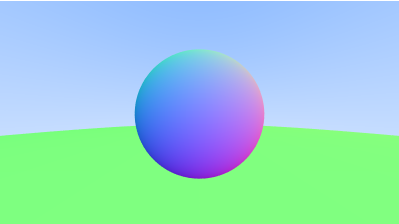
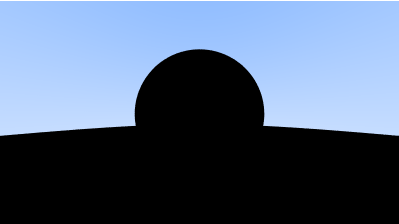
some diffuse but not working

diff --git a/main.go b/main.go
@@ -1,6 +1,7 @@
 package main
 
 import (
+	"fmt"
 	"image"
 	"image/png"
 	"math"
@@ -14,6 +15,7 @@ func main() {
 	const imageWidth int = 400
 	const imageHeight int = int(float64(imageWidth) / aspectRatio)
 	const samplesPerPixel int = 100
+	const maxDepth int = 100
 
 	//Camera
 
@@ -29,12 +31,11 @@ func main() {
 	var world hittableList
 
 	world.Add(sphere{point3{0, 0, -1}, 0.5})
-	world.Add(sphere{point3{0, -100.5, -1}, 100})
+	// world.Add(sphere{point3{0, -100.5, -1}, 100})
 
 	// Set color for each pixel.
 	for y := imageHeight - 1; y >= 0; y-- {
-		// for y := 0; y < imageHeight; y++ {
-		// fmt.Printf("%d/%d lines\n", y, imageHeight-1)
+		fmt.Printf("%d/%d lines\n", imageHeight-y, imageHeight-1)
 		for x := 0; x < imageWidth; x++ {
 			pixelColor := color3{0, 0, 0}
 
@@ -44,7 +45,12 @@ func main() {
 				//Vertical ratio?
 				v := (float64(y) + randomDouble()) / float64(imageHeight-1)
 				currentRay := c.getRay(u, v)
-				pixelColor = pixelColor.Add(currentRay.RayColor(world))
+				rayColor := currentRay.RayColor(world, maxDepth)
+				if y == imageHeight/2 && x == imageWidth/2 {
+					rayColor.Print()
+				}
+
+				pixelColor = pixelColor.Add(rayColor)
 			}
 			// Colors are defined by Red, Green, Blue, Alpha uint8 values.
 			img.Set(x, imageHeight-y, color3ToRGBA(pixelColor, samplesPerPixel))

diff --git a/ray.go b/ray.go
@@ -1,5 +1,7 @@
 package main
 
+import "fmt"
+
 type ray struct {
 	origin    point3
 	direction vec3
@@ -10,12 +12,18 @@ func (r ray) At(t float64) point3 {
 }
 
 //"Background" color (colors can be changed)
-func (r ray) RayColor(world hittable) color3 {
+func (r ray) RayColor(world hittable, maxDepth int) color3 {
+
+	if maxDepth <= 0 {
+		fmt.Print("Yes")
+		//No more light gathered
+		return color3{0, 0, 0}
+	}
+
 	rec, hit := world.hit(r, 0, infinity)
-	if hit {
-		// return rec.normal.Add(vec3{1, 1, 1}).Mult(0.5)
-		// return color3{rec.normal.X() + 1, rec.normal.Y() + 1, rec.normal.Z() + 1}.Mult(0.5)
-		return color3{1 - rec.normal.X(), 1 - rec.normal.Y(), 1 - rec.normal.Z()}.Mult(0.5)
+	if hit == true {
+		target := rec.p.Add(rec.normal).Add(randomInUnitSphere())
+		return ray{rec.p, target.Sub(rec.p)}.RayColor(world, maxDepth-1).Mult(0.5)
 	}
 	rec.t = 0.5 * (r.direction.Normalize().Y() + 1.0)
 	return Lerp(color3{1.0, 1.0, 1.0}, color3{0.5, 0.7, 1.0}, rec.t)

diff --git a/vec3.go b/vec3.go
@@ -67,3 +67,21 @@ func (v vec3) Cross(v2 vec3) vec3 {
 func Lerp(start vec3, end vec3, t float64) vec3 {
 	return start.Mult(1.0 - t).Add(end.Mult(t))
 }
+
+func randomVec3() vec3 {
+	return vec3{randomDouble(), randomDouble(), randomDouble()}
+}
+
+func randomRangeVec3(min float64, max float64) vec3 {
+	return vec3{randomDoubleRange(min, max), randomDoubleRange(min, max), randomDoubleRange(min, max)}
+}
+
+func randomInUnitSphere() vec3 {
+	for {
+		p := randomRangeVec3(-1, 1)
+		if p.LengthSquared() >= 1 {
+			continue
+		}
+		return p
+	}
+}

diff --git a/hittable.go b/hittable.go
@@ -67,7 +67,7 @@ func (list hittableList) hit(r ray, tMin float64, tMax float64) (rec hitRecord, 
 	closestSoFar := tMax
 
 	for _, obj := range list.objects {
-		if hitRec, hit := obj.hit(r, tMin, closestSoFar); hit {
+		if hitRec, hit := obj.hit(r, tMin, closestSoFar); hit == true {
 			hitAnything = true
 			closestSoFar = rec.t
 			rec = hitRec

diff --git a/utils.go b/utils.go
@@ -20,12 +20,11 @@ func randomDoubleRange(min float64, max float64) float64 {
 }
 
 func clamp(x float64, min float64, max float64) float64 {
-	switch {
-	case x < min:
+	if x < min {
 		return min
-	case x > max:
+	}
+	if x > max {
 		return max
 	}
-
 	return x
 }
